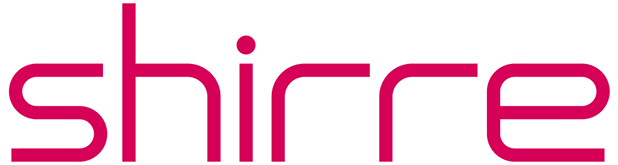
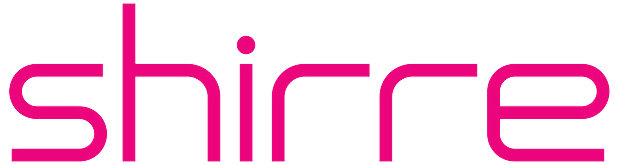
Unify header wordmark with brand magenta

Changed region(s): [[0.0, 0.0, 1.0, 1.0], [0.3689, 0.2121, 0.4304, 0.3333]]

diff --git a/static/css/header-v2.css b/static/css/header-v2.css
@@ -3,7 +3,7 @@
    Do not redeclare @font-face here; reuse the site's already-bundled Open Sans faces. */
 
 .hdr2- {
-  --hdr2-magenta: #d5115c;
+  --hdr2-magenta: #EC047C;
   --hdr2-ink: #1A1F24;
   --hdr2-tagline: #7A858B;
   --hdr2-line: #E4E8EB;
